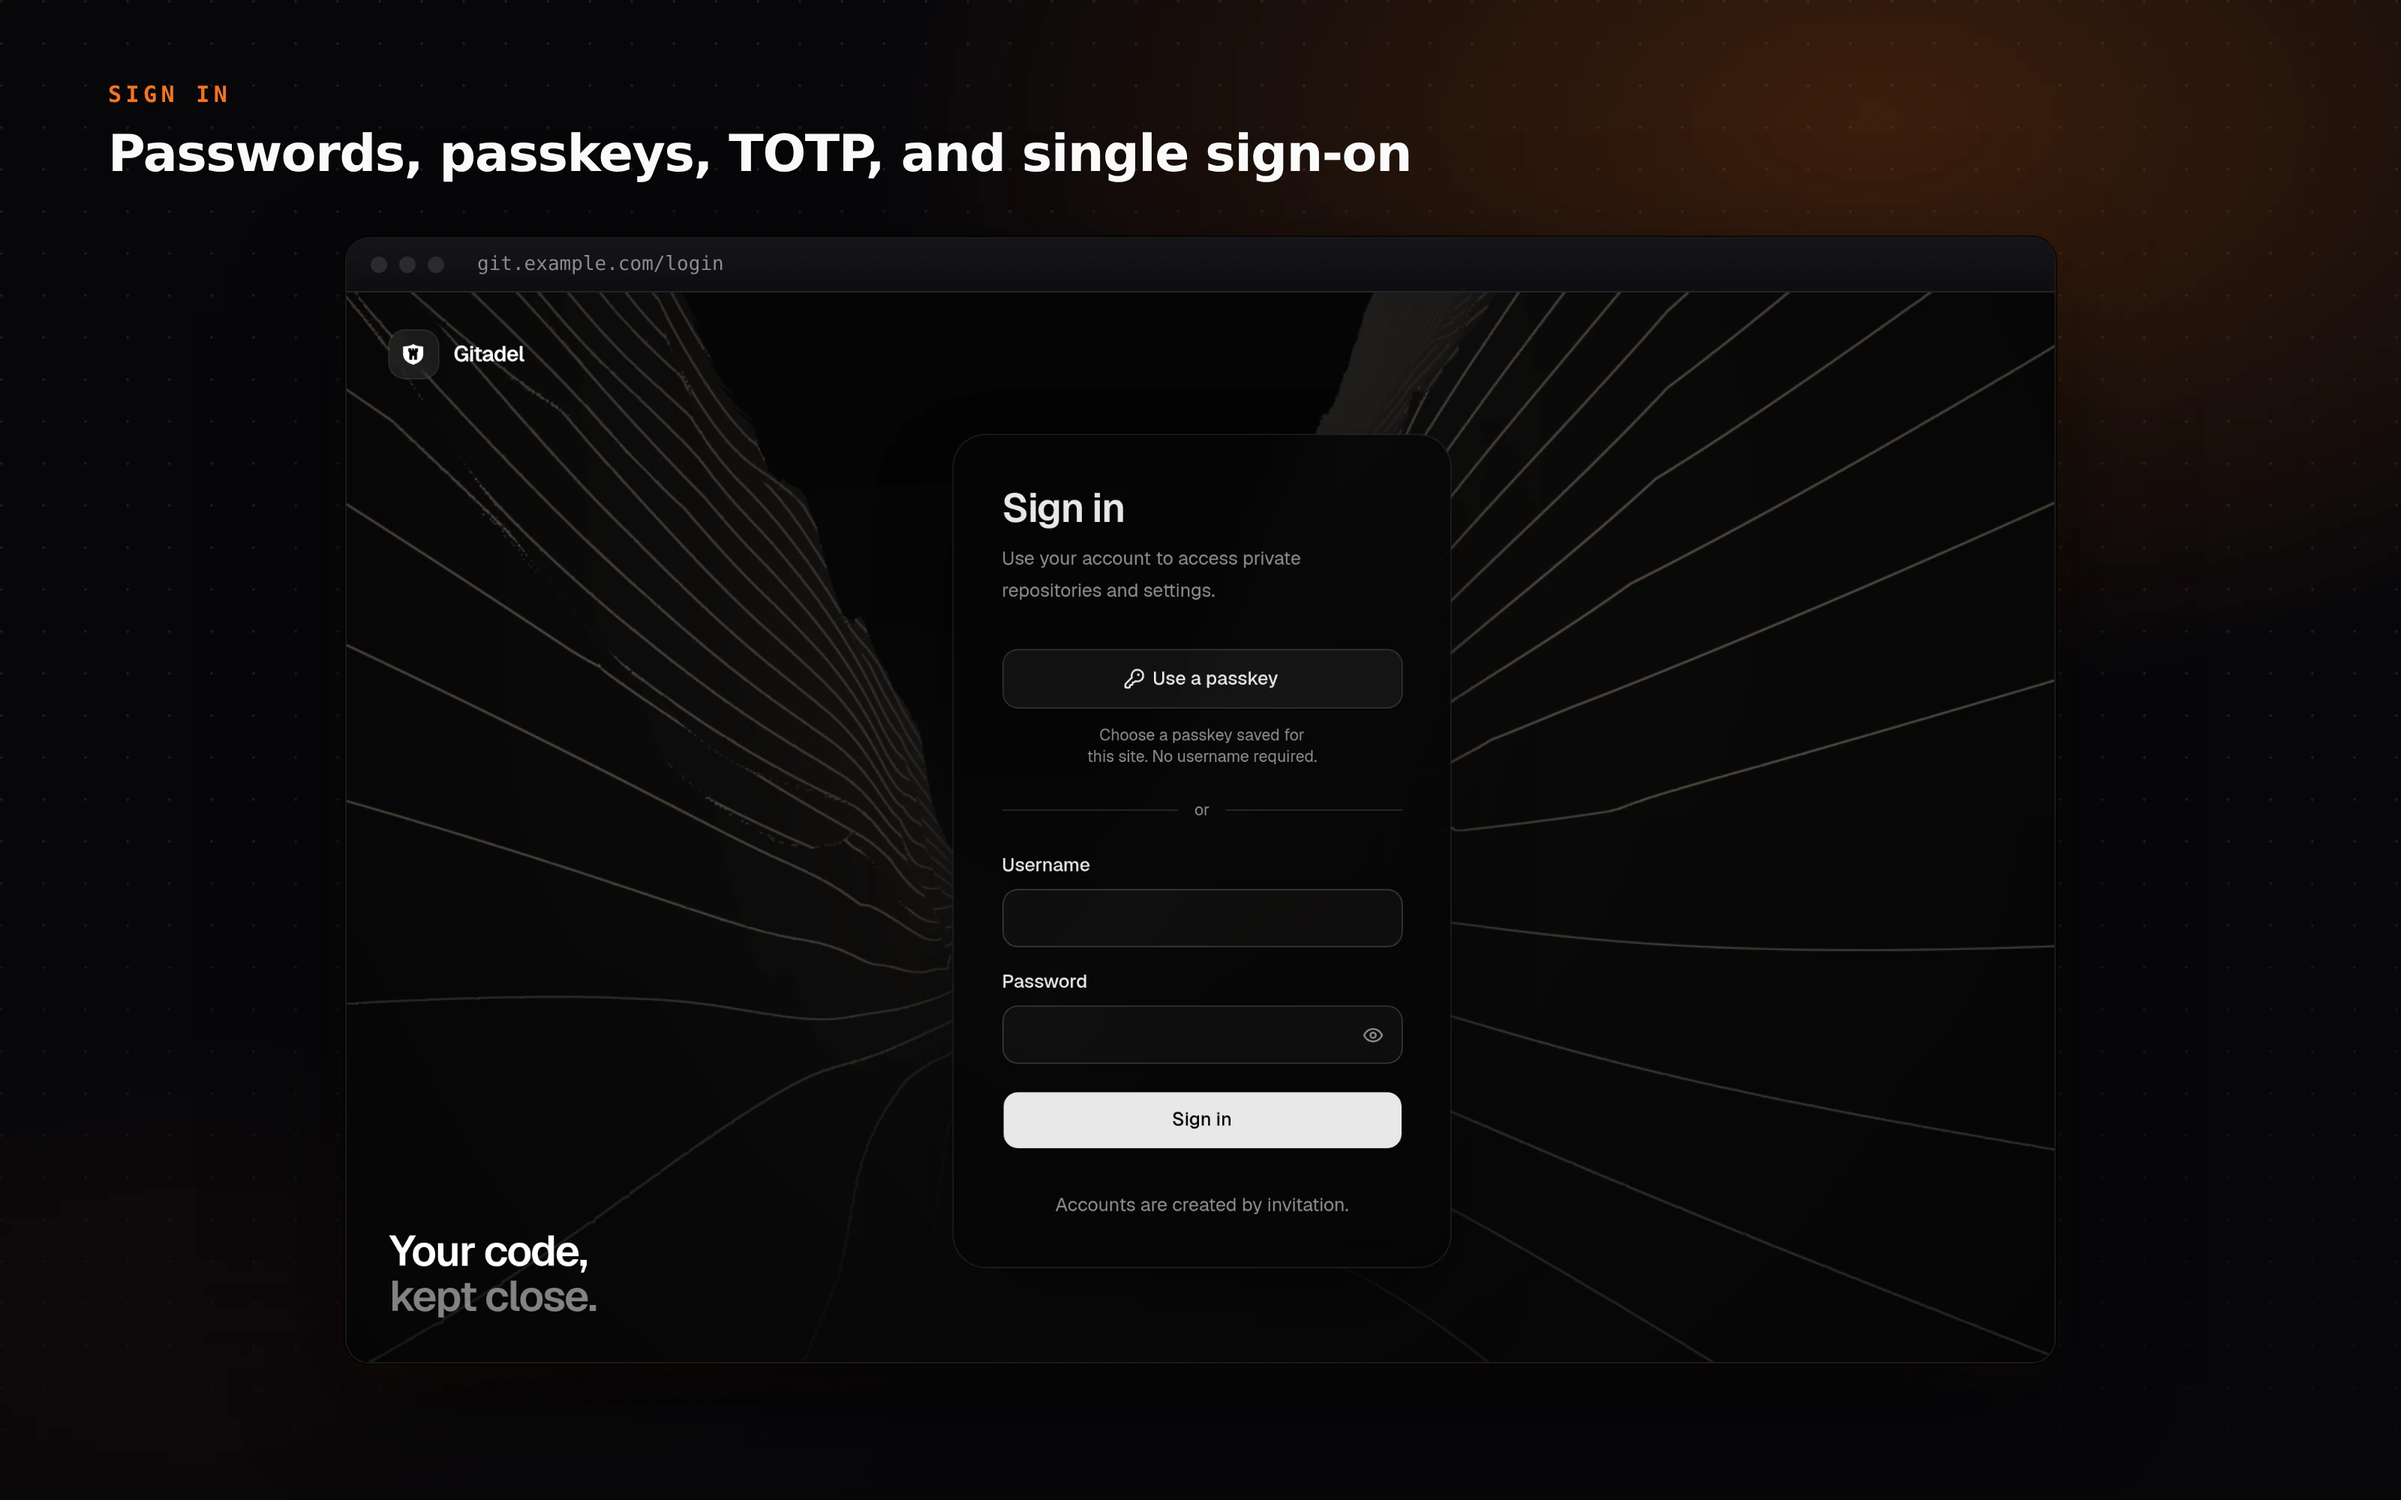
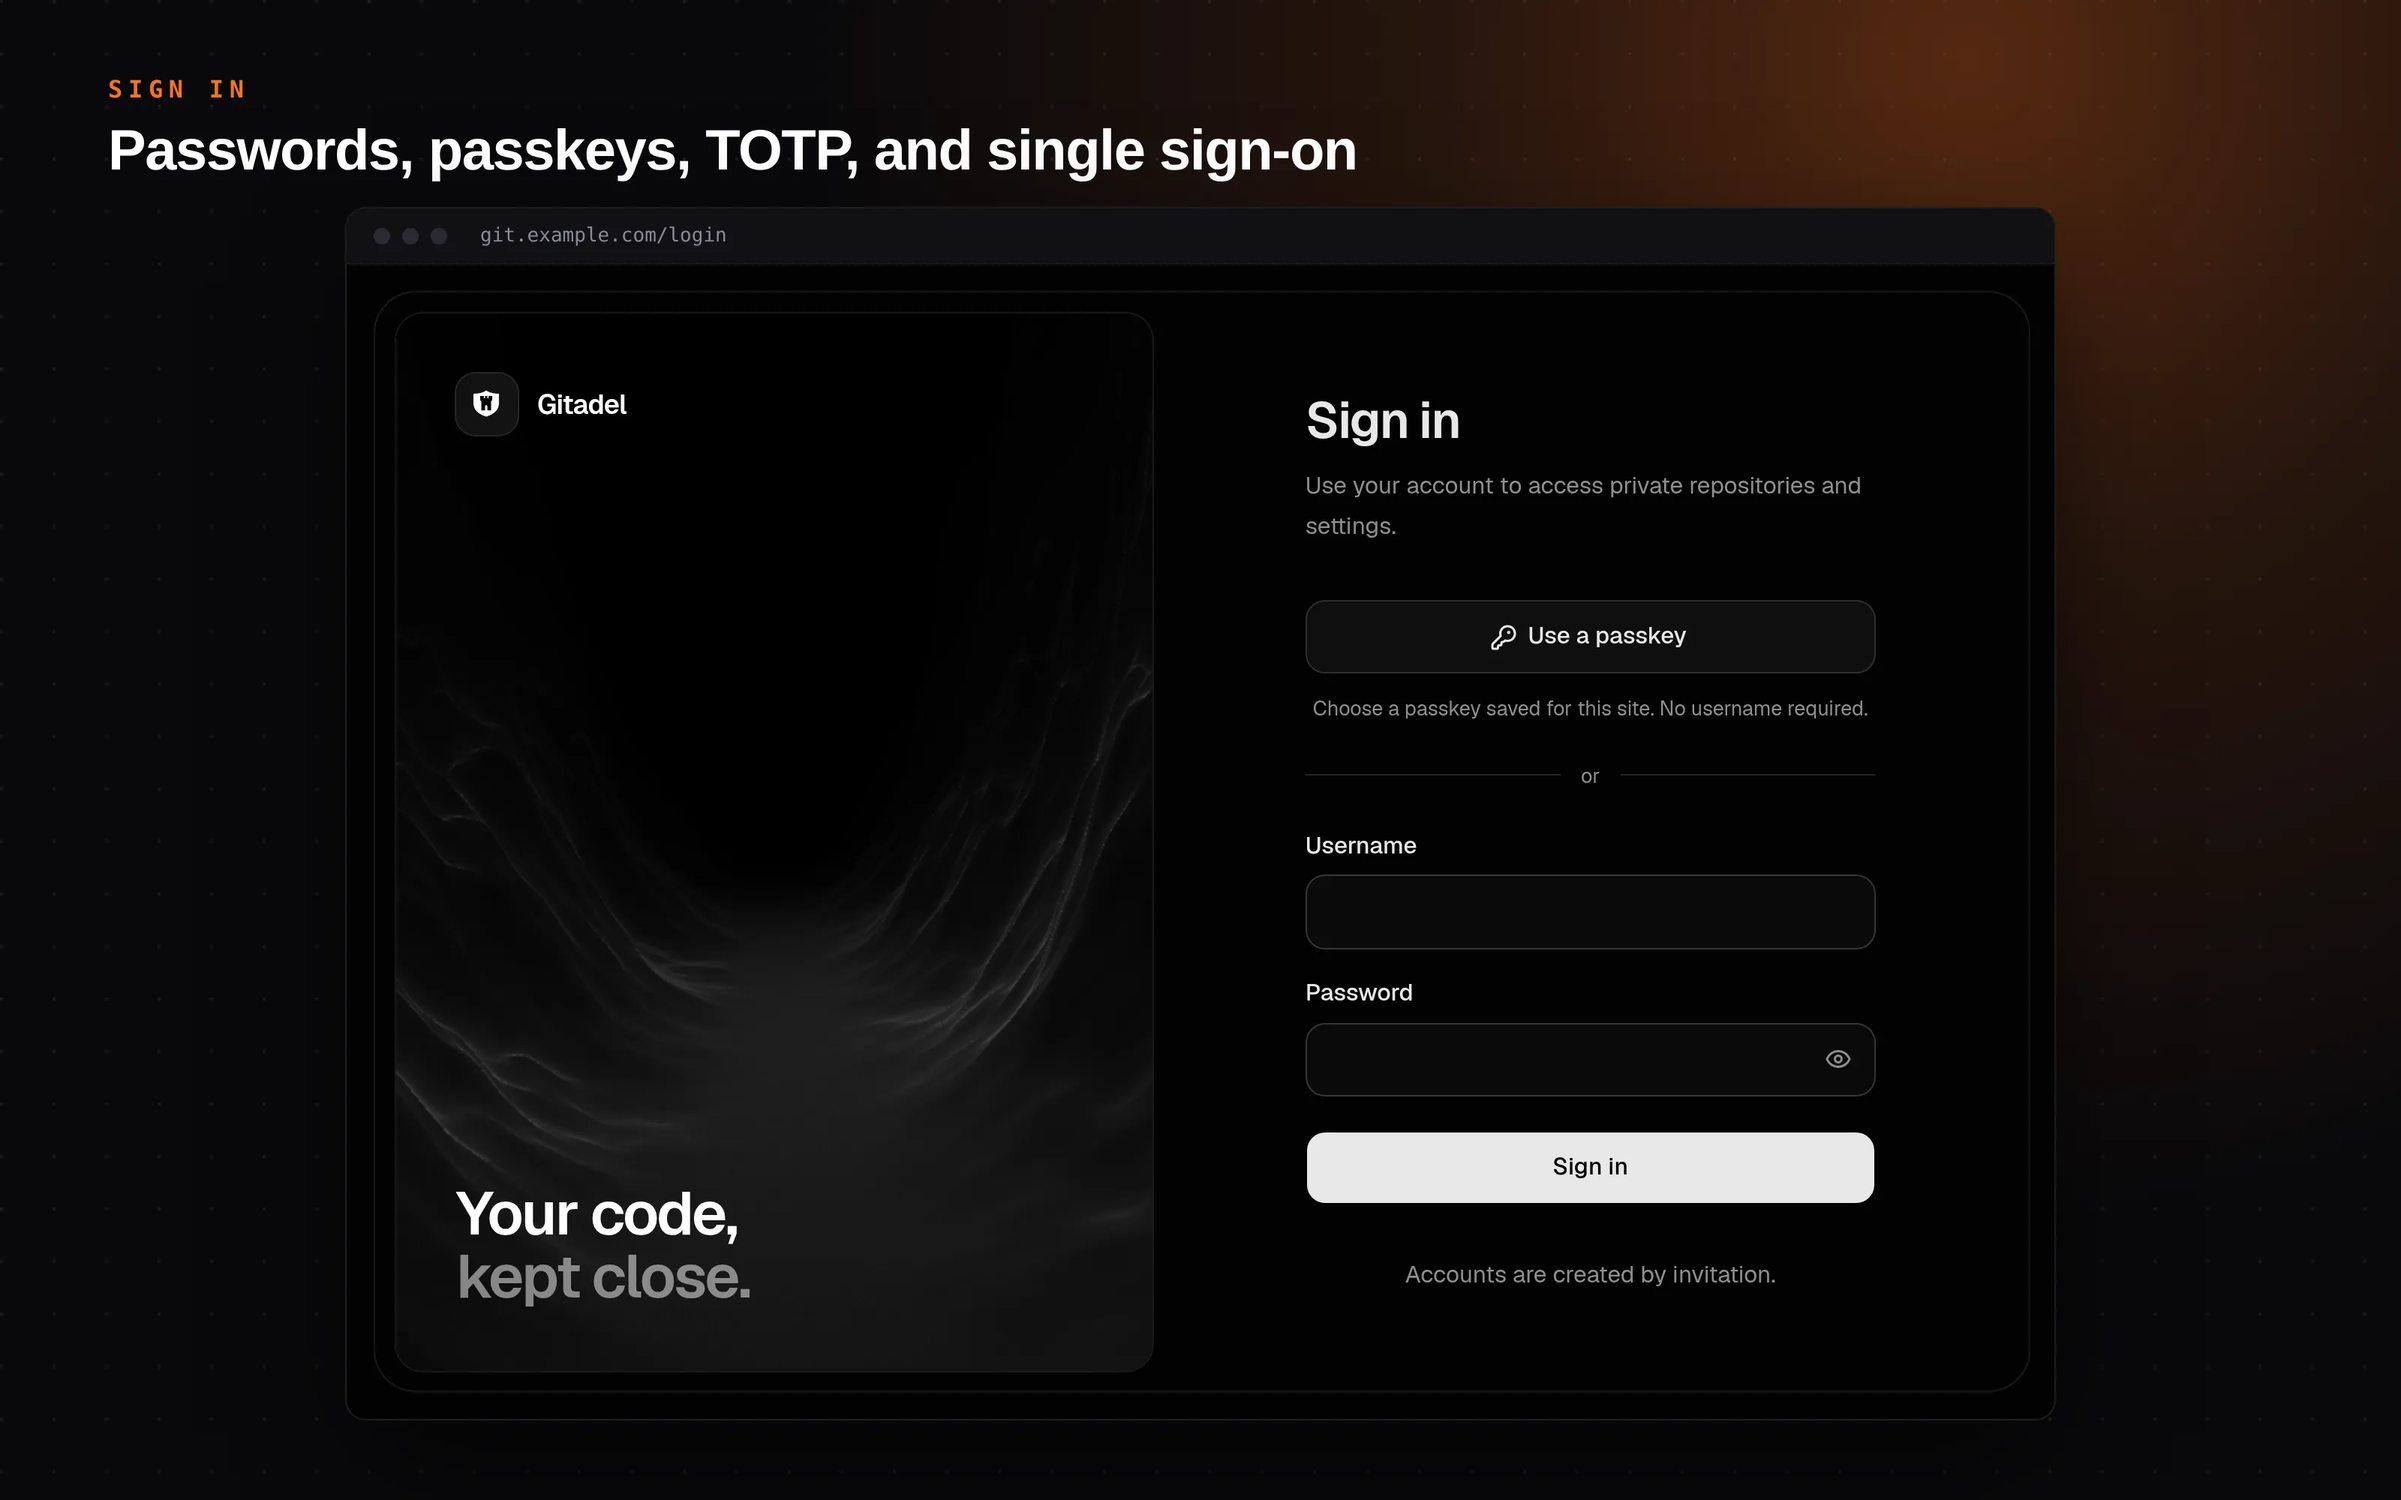
docs: show the new sign-in and profile pages in the README
Move the hero screenshot under the title, replace the old sign-in shot with the split layout, and add the profile page.

diff --git a/README.md b/README.md
@@ -10,6 +10,10 @@
 <h1 align="center">Gitadel</h1>
 
 <p align="center">
+  <img src="assets/screenshots/hero.webp" alt="Gitadel showing syntax-highlighted Rust source in the gitadel repository, with a passing Actions run and its job log in front" width="100%" />
+</p>
+
+<p align="center">
   A small self-hosted Git server for projects you want to keep.
 </p>
 
@@ -22,10 +26,6 @@ Gitadel keeps the useful parts of a forge without becoming another collaboration
 Gitadel deliberately leaves out pull requests and social feeds. The browser can create files and tracked directories, but does not edit existing files.
 
 Repository operations run in-process through [Sley](https://github.com/Fractal-Tess/sley). The server does not require installed Git, Git LFS, or SSH executables.
-
-<p align="center">
-  <img src="assets/screenshots/hero.webp" alt="Gitadel showing syntax-highlighted Rust source in the gitadel repository, with a passing Actions run and its job log in front" width="100%" />
-</p>
 
 ## Quick start
 
@@ -59,7 +59,10 @@ Press **Ctrl+K** to search repositories or find commands for creation, imports, 
   </tr>
   <tr>
     <td><img src="assets/screenshots/issues.webp" alt="Issue list with colored labels and assignees" /></td>
-    <td><img src="assets/screenshots/signin.webp" alt="Sign-in page with a passkey button and username and password form over an animated canyon background" /></td>
+    <td><img src="assets/screenshots/signin.webp" alt="Sign-in page split in two: an animated misty ravine with the tagline on the left, and a passkey button and username and password form on the right" /></td>
+  </tr>
+  <tr>
+    <td colspan="2"><img src="assets/screenshots/profile.webp" alt="Profile page with a README, four pinned repositories, and a year of commit activity drawn as a contribution grid" /></td>
   </tr>
 </table>
 
